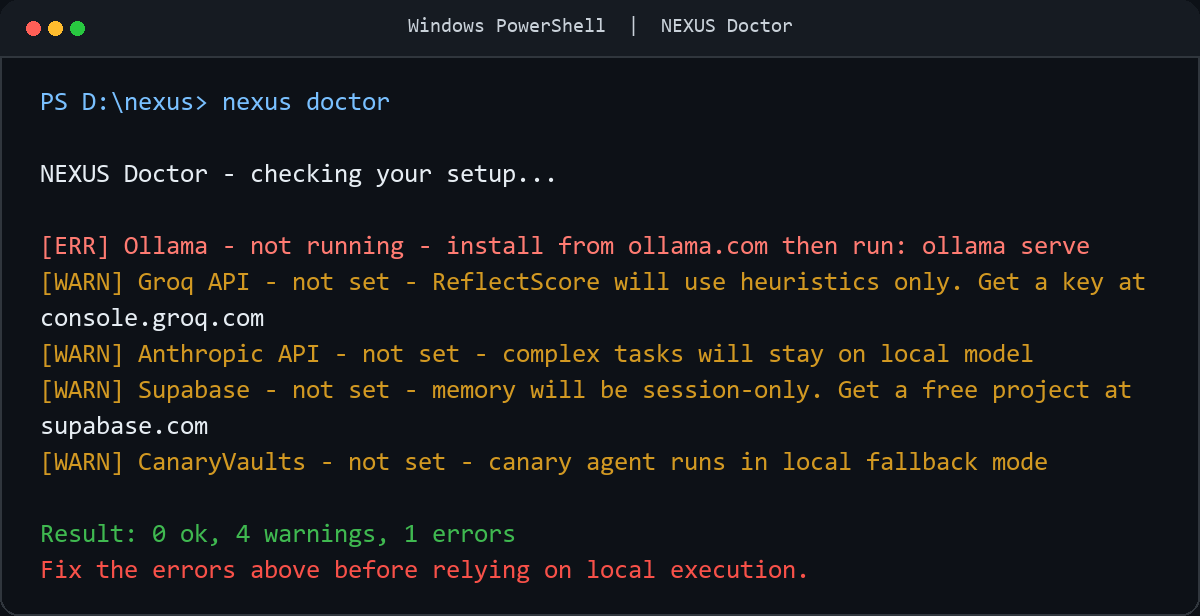
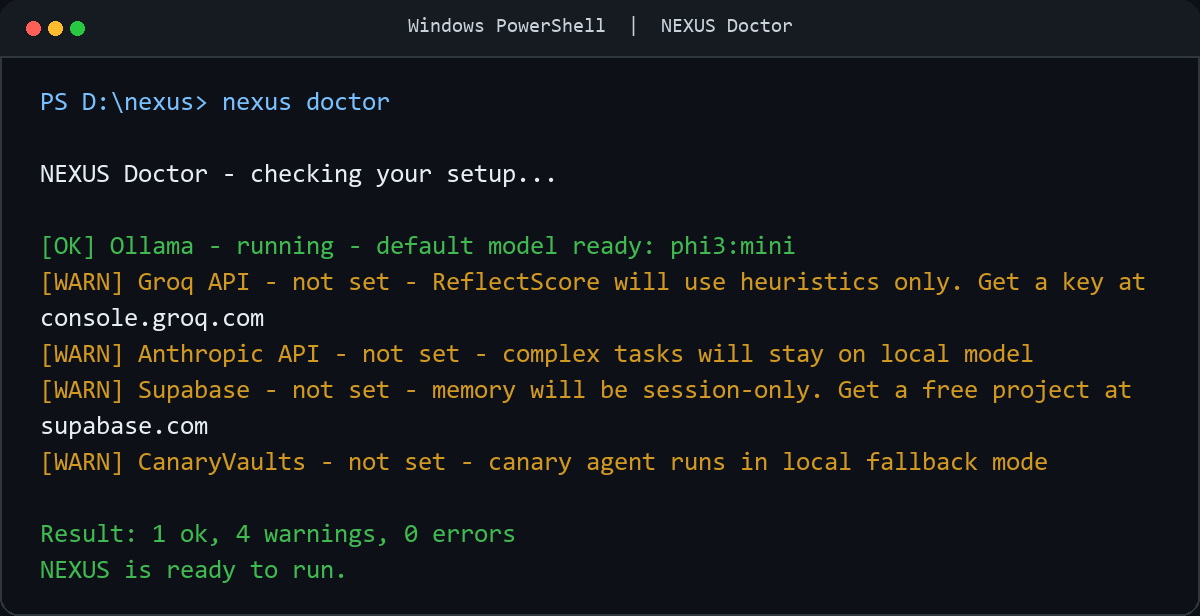
Update launch screenshot to ready state

diff --git a/README.md b/README.md
@@ -45,6 +45,10 @@ If `phi3:mini` is missing, `nexus doctor` and `nexus init` will tell you to run:
 ollama pull phi3:mini
 ```
 
+Healthy first-run example:
+
+![NEXUS Doctor screenshot](docs/launch/assets/nexus-doctor-terminal.png)
+
 ## What You Can Do Right Now
 
 ```bash